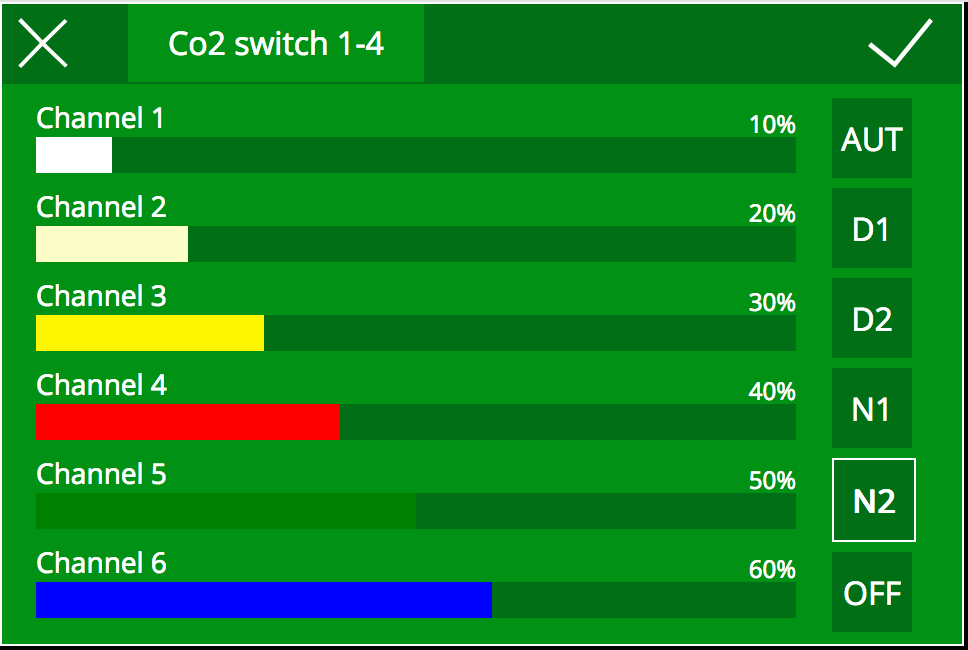
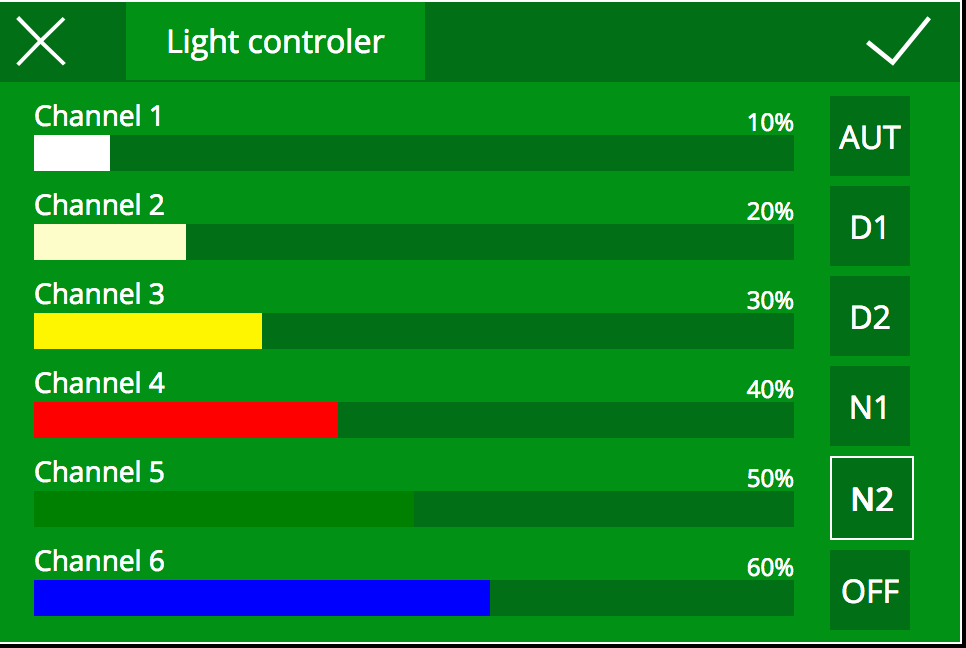
screenshots

diff --git a/aqua.lcd.comp/http.interface/data/light.html b/aqua.lcd.comp/http.interface/data/light.html
@@ -157,7 +157,7 @@
       </div>
       <div id="tb">
         <ul>
-          <li><a href="#tabs-1">Co2 switch 1-4</a></li>
+          <li><a href="#tabs-1">Light controler</a></li>
         </ul>
       </div>
       <div id="ok"><img widht="25px" height="25px" src="/ok.svg"></div>
